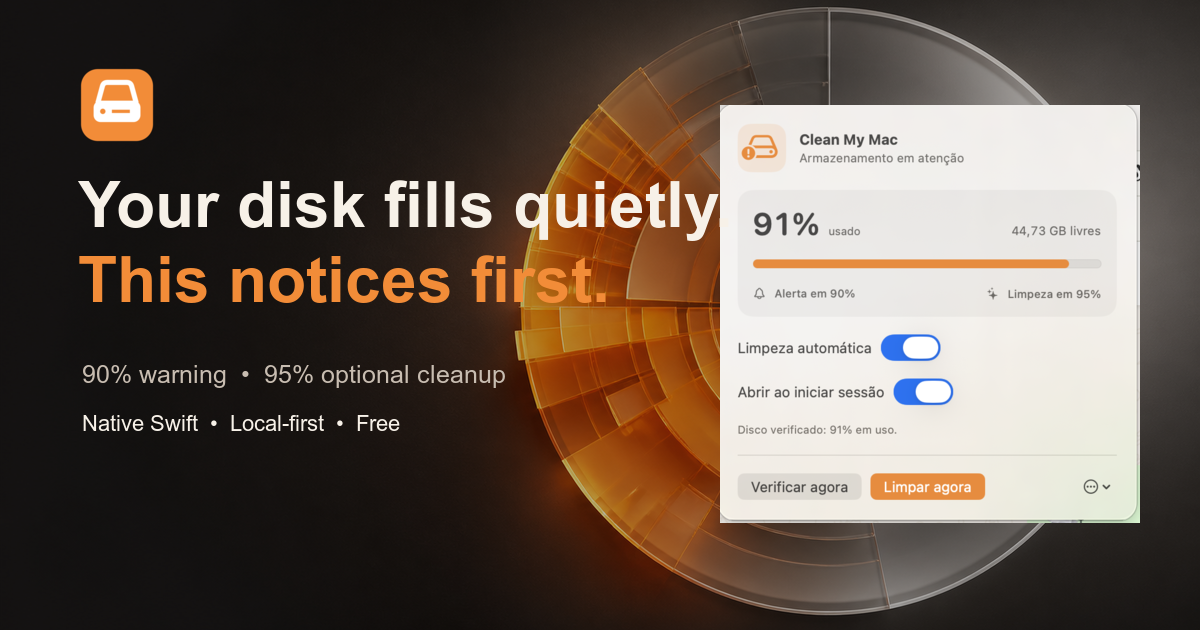
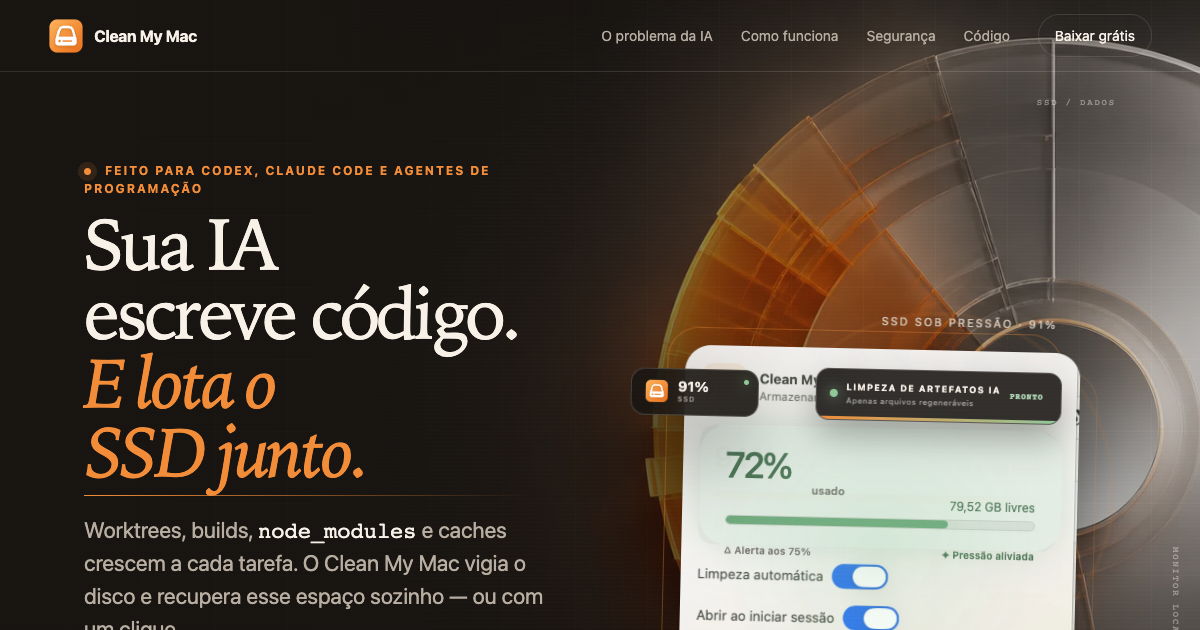
docs: turn README into AI-first product page (#13)

diff --git a/README.md b/README.md
@@ -1,87 +1,141 @@
-# Clean My Mac
-
-**Autonomous SSD protection for people who build with Codex, Claude Code and coding agents.**
-
 <p align="center">
-  <a href="https://luisroquette.github.io/clean-my-mac/"><img src="https://img.shields.io/badge/product%20page-open-F28C38?style=flat-square" alt="Open the Clean My Mac product page"></a>
-  <a href="https://github.com/luisroquette/clean-my-mac/releases/latest"><img src="https://img.shields.io/badge/version-1.1.1-1D1D1F?style=flat-square" alt="Version 1.1.1"></a>
-  <a href="LICENSE"><img src="https://img.shields.io/badge/license-MIT-1D1D1F?style=flat-square" alt="MIT license"></a>
-  <img src="https://img.shields.io/badge/macOS-14%2B-1D1D1F?style=flat-square" alt="macOS 14 or later">
+  <img src="docs/img/app-icon.png" width="92" height="92" alt="Ícone do Clean My Mac">
 </p>
 
-Coding agents move fast, but parallel worktrees, dependency trees, builds and
-tool caches can quietly consume the entire SSD. Clean My Mac watches the data
-volume every minute, warns at 75%, and automatically cleans narrowly
-allow-listed, regenerable development artifacts at 78%.
+<h1 align="center">Clean My Mac</h1>
 
-No account. No telemetry. No cloud service. Native SwiftUI, not Electron.
+<p align="center">
+  <strong>Proteção autônoma de SSD para quem constrói com IA.</strong><br>
+  Feito para o rastro técnico deixado por Codex, Claude Code e agentes de programação.
+</p>
 
-![Clean My Mac showing a 91% storage warning and the automatic-cleanup controls](docs/img/app-popover.webp)
+<p align="center">
+  <a href="https://luisroquette.github.io/clean-my-mac/"><img src="https://img.shields.io/badge/BAIXAR-PARA%20MAC-F28C38?style=for-the-badge&logo=apple&logoColor=white" alt="Baixar Clean My Mac"></a>
+  <a href="https://github.com/luisroquette/clean-my-mac/releases/tag/v1.1.1"><img src="https://img.shields.io/badge/VERSÃO-1.1.1-201C19?style=for-the-badge" alt="Versão 1.1.1"></a>
+  <a href="https://github.com/luisroquette/clean-my-mac/actions/workflows/ci.yml"><img src="https://img.shields.io/github/actions/workflow/status/luisroquette/clean-my-mac/ci.yml?branch=main&style=for-the-badge&label=CI" alt="Status do CI"></a>
+</p>
 
-[Watch the 12-second product demo](docs/video/clean-my-mac-demo.mp4)
+<p align="center">
+  <a href="https://luisroquette.github.io/clean-my-mac/"><img src="docs/img/og-card.png" alt="Clean My Mac protegendo o SSD de resíduos gerados por agentes de IA"></a>
+</p>
 
-## Why it exists
+## Sua IA termina a tarefa. Os gigabytes ficam.
 
-Codex and Claude Code can leave several gigabytes behind after a task is done:
-worktrees, `node_modules`, `.next` output and package-manager caches. Disk
-pressure becomes visible only when the next build fails or an update stops.
-Clean My Mac turns that AI-development failure mode into four guardrails:
+Agentes trabalham em paralelo, criam worktrees, instalam dependências e repetem
+builds. Depois da entrega, `node_modules`, `.next` e caches de ferramentas
+continuam ocupando o SSD. O problema costuma aparecer tarde: a próxima build
+falha, uma atualização para ou o macOS fica sem espaço de trabalho.
 
-1. **75% used:** visible menu-bar state and a macOS notification.
-2. **78% used:** optional automatic cleanup of narrowly allow-listed data.
-3. **80% used:** hard-limit alert if safe cleanup cannot recover enough space.
-4. **95% used:** emergency retries every 2 minutes instead of every 15 minutes.
-5. **Below 73%:** the warning rearms for the next storage cycle.
+Clean My Mac monitora o volume de dados a cada minuto e age sem interromper o
+fluxo:
 
-## Built for AI coding workflows
+| 75% | 78% | 80% | 95% |
+|:---:|:---:|:---:|:---:|
+| **Alerta** | **Limpeza autônoma** | **Limite protegido** | **Retry emergencial** |
+| Um aviso claro | Lista segura | Avisa se não bastar | Nova tentativa a cada 2 min |
 
-This is not a broad PC-maintenance utility. CCleaner and generic cleaners scan
-the operating system; Clean My Mac focuses on the technical residue produced by
-coding agents. It checks Git state, active development processes and a strict
-allow list before removing artifacts that the project can rebuild.
+<p align="center">
+  <img src="docs/img/readme-storage-control.png" alt="Modelo de decisão do Clean My Mac em 95% de uso do SSD">
+</p>
 
-Install it once, keep automatic cleanup enabled, and let your agents work. You
-can also trigger the same safe cleanup with one click from the macOS menu bar.
+## Uma categoria feita para fluxos com IA
 
-## Safety contract
+CCleaner e utilitários genéricos fazem manutenção ampla do sistema. Clean My Mac
+entende projetos de software: Git, worktrees, processos ativos, builds e caches
+regeneráveis. O foco não é “limpar o Mac”; é impedir que agentes de código
+consumam silenciosamente todo o SSD.
 
-| It may remove | It never removes |
+- **Autônomo:** inicia com a sessão e verifica o disco a cada minuto.
+- **Um clique:** `Limpar agora` executa a mesma política segura sob demanda.
+- **Local:** nenhum dado, caminho ou evento sai do computador.
+- **Auditável:** código, regras e log de cada execução são públicos ou locais.
+
+## Como a decisão funciona
+
+```mermaid
+flowchart LR
+    A[Monitor local\na cada 1 minuto] --> B{Uso do SSD}
+    B -->|abaixo de 75%| C[Observar]
+    B -->|75%| D[Alertar]
+    B -->|78% ou mais| E[Mapear artefatos]
+    E --> F{Git ignorado,\nregenerável e inativo?}
+    F -->|não| G[Preservar e registrar]
+    F -->|sim| H[Remover e verificar]
+    B -->|95% ou mais| I[Retry emergencial\na cada 2 minutos]
+    I --> E
+```
+
+O percentual usado pela política é o mesmo número arredondado mostrado na
+interface. Se o aplicativo exibe **95%**, o modo emergencial já está ativo.
+
+## Contrato de segurança
+
+| Pode remover | Nunca remove |
 |---|---|
-| npm, uv, Bun, Deno and Homebrew caches when those tools are installed | Documents, Desktop, Downloads, Photos, Music, Movies or Public folders |
-| `node_modules` and `.next` directories of 100 MB or more | Git-tracked or non-ignored project content |
-| Only generated folders inside a Git repository and ignored by Git | Artifacts belonging to a project used by any current-user process |
-| Only after checking Git status before and after cleanup | Trash contents, Docker data, credentials, source files or external volumes |
+| Caches de npm, uv, Bun, Deno e Homebrew | Documentos, Mesa, Downloads e mídia pessoal |
+| `node_modules` e `.next` com 100 MB ou mais | Fontes rastreadas ou conteúdo não ignorado pelo Git |
+| Artefatos ignorados dentro de um repositório Git | Projetos usados por qualquer processo do utilizador |
+| Somente após verificar Git e processos novamente | Lixeira, Docker, credenciais e discos externos |
 
-Generated artifacts are deleted permanently to recover disk space. Every run is
-recorded locally at `~/Library/Logs/CleanMyMac/clean-my-mac.log`.
+A inspeção de processos falha de forma fechada: se o macOS não permitir
+confirmar que um projeto está inativo, o alvo é preservado. O Git é comparado
+antes e depois da remoção. Falhas e recriações entram no resultado da execução.
 
-Before each artifact removal, the app checks the working directories of all
-current-user processes. This protects projects being used by terminals, Codex,
-Claude Code and other development tools, not only Node or Python processes.
+> O teto de 80% é **best-effort**. Se não existir espaço regenerável suficiente,
+> o aplicativo alerta e preserva dados pessoais e projetos ativos. Ele não
+> encerra agentes nem amplia sozinho a fronteira de exclusão.
 
-## Install
+## O que mudou na v1.1.1
 
-Open the [download page](https://luisroquette.github.io/clean-my-mac/#download), complete the contact form, unzip the released file, and move **Clean My Mac.app** to Applications.
+- Gatilhos alinhados ao percentual visível na interface.
+- Retry de emergência reduzido de 15 para 2 minutos a partir de 95%.
+- Proteção ampliada de Node/Python para todos os processos do utilizador.
+- Nova verificação de atividade imediatamente antes de cada remoção.
+- Logs explícitos para gatilho automático, leitura de disco e falhas verificadas.
 
-The free build is ad-hoc signed, not Apple-notarized. On first launch:
+## Instalação
+
+1. Abra a [página oficial de download](https://luisroquette.github.io/clean-my-mac/#download).
+2. Preencha nome, WhatsApp e e-mail para liberar o ZIP gratuito.
+3. Mova **Clean My Mac.app** para `Aplicativos`.
+4. Na primeira execução, rode:
 
 ```bash
 xattr -dr com.apple.quarantine "/Applications/Clean My Mac.app"
 open "/Applications/Clean My Mac.app"
 ```
 
-The prebuilt release targets Apple silicon and requires macOS 14 or later.
+O build atual requer **macOS 14+**, processador **Apple silicon** e usa assinatura
+ad-hoc. Ainda não há notarização Apple.
 
-## Use
+## Uso
 
-1. Find the disk icon in the top-right menu bar, beside Wi-Fi and the clock.
-2. Leave **Automatic cleanup** enabled for the 78% preventive guard.
-3. Leave **Open at Login** enabled for continuous monitoring.
-4. Use **Check now** or **Clean now** whenever you want an immediate run.
+1. Procure o ícone de disco na barra superior do macOS, perto do Wi-Fi e relógio.
+2. Mantenha **Limpeza automática** ativada.
+3. Mantenha **Abrir ao iniciar sessão** ativado.
+4. Use **Verificar agora** ou **Limpar agora** para uma execução imediata.
 
-The current app interface is in Brazilian Portuguese.
+O log fica em:
 
-## Build from source
+```text
+~/Library/Logs/CleanMyMac/clean-my-mac.log
+```
+
+[Assistir à demonstração real de 12 segundos](docs/video/clean-my-mac-demo.mp4)
+
+## Arquitetura pequena e nativa
+
+| Componente | Responsabilidade |
+|---|---|
+| `StorageMonitor` | Amostragem, notificações, login e orquestração |
+| `StoragePolicy` | Limites, cooldown normal e retry emergencial |
+| `SafeCleaner` | Candidatos, processos, Git, remoção e auditoria |
+| `MenuBarView` | Interface SwiftUI na barra do macOS |
+
+Swift 6, SwiftUI, AppKit, ServiceManagement e UserNotifications. Nenhuma
+dependência de runtime, Electron, conta ou serviço de nuvem.
+
+## Compilar e verificar
 
 ```bash
 git clone https://github.com/luisroquette/clean-my-mac.git
@@ -90,35 +144,32 @@ cd clean-my-mac
 open "dist/Clean My Mac.app"
 ```
 
-The project uses Swift 6, SwiftUI, AppKit and native macOS services. It has no
-third-party runtime dependencies.
+O preflight canônico executa validação do `Info.plist`, testes do modelo web,
+E2E desktop/mobile, testes Swift, build de produção, verificação da versão
+pública e assinatura do aplicativo.
 
-## Development roots
+## Escopo de projetos
 
-The generated-artifact scan is limited to `~/Projects`, `~/Projetos`,
-`~/Developer`, `~/Code`, plus direct folders in the home directory that contain
-either `.git` or `package.json`. Hidden folders and personal macOS folders are
-excluded before traversal.
+A busca de artefatos cobre `~/Projects`, `~/Projetos`, `~/Developer`, `~/Code` e
+pastas diretas da home que contenham `.git` ou `package.json`. Pastas ocultas,
+áreas pessoais do macOS e caminhos protegidos são excluídos antes da varredura.
 
-## Privacy
+## Privacidade
 
-Storage samples, preferences and cleanup logs remain on the Mac. The app has no
-analytics SDK, network client, account system or remote backend.
+Amostras de armazenamento, preferências e logs permanecem no Mac. O aplicativo
+não contém cliente de rede, analytics, telemetria, conta ou backend remoto.
 
-## Known limitations
+## Limitações conhecidas
 
-- The 80% ceiling is best-effort: if safe regenerable data is insufficient, the app alerts instead of deleting personal files.
-- The prebuilt release is Apple-silicon-only and not notarized.
-- The interface is currently Brazilian Portuguese.
-- Projects outside the documented roots are not scanned.
-- Package caches are cleaned only when their command-line tools are installed.
+- O teto de 80% depende da existência de artefatos seguros e inativos.
+- Projetos fora das raízes documentadas não são varridos.
+- Caches só são limpos quando a respectiva ferramenta está instalada.
+- O build distribuído é exclusivo para Apple silicon e ainda não é notarizado.
+- A interface atual está em português do Brasil.
 
-## License
+## Projeto aberto
 
-[MIT](LICENSE) © 2026 Luis Roquette.
+[MIT](LICENSE) © 2026 [Luis Roquette](https://github.com/luisroquette).
 
----
-
-Clean My Mac is an independent open-source utility. It is not affiliated with,
-sponsored by, or endorsed by MacPaw. “CleanMyMac” is a trademark of its
-respective owner.
+Clean My Mac é um software independente. Não possui afiliação, patrocínio ou
+endosso da MacPaw. “CleanMyMac” é marca de seu respectivo proprietário.
